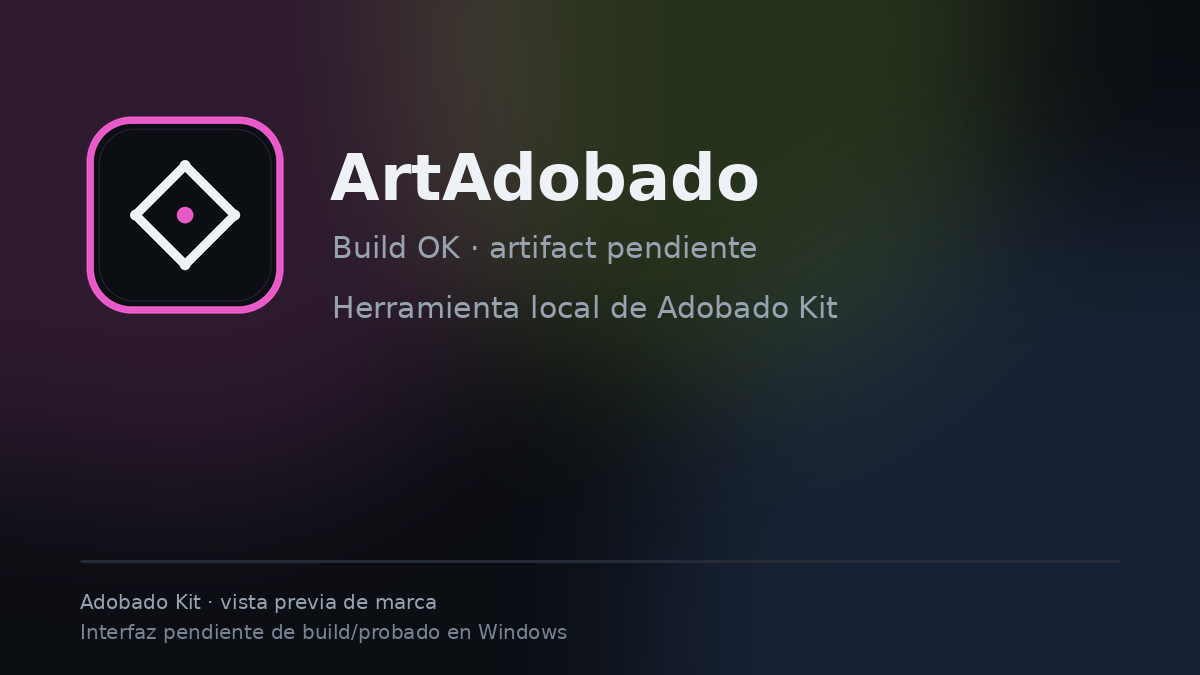
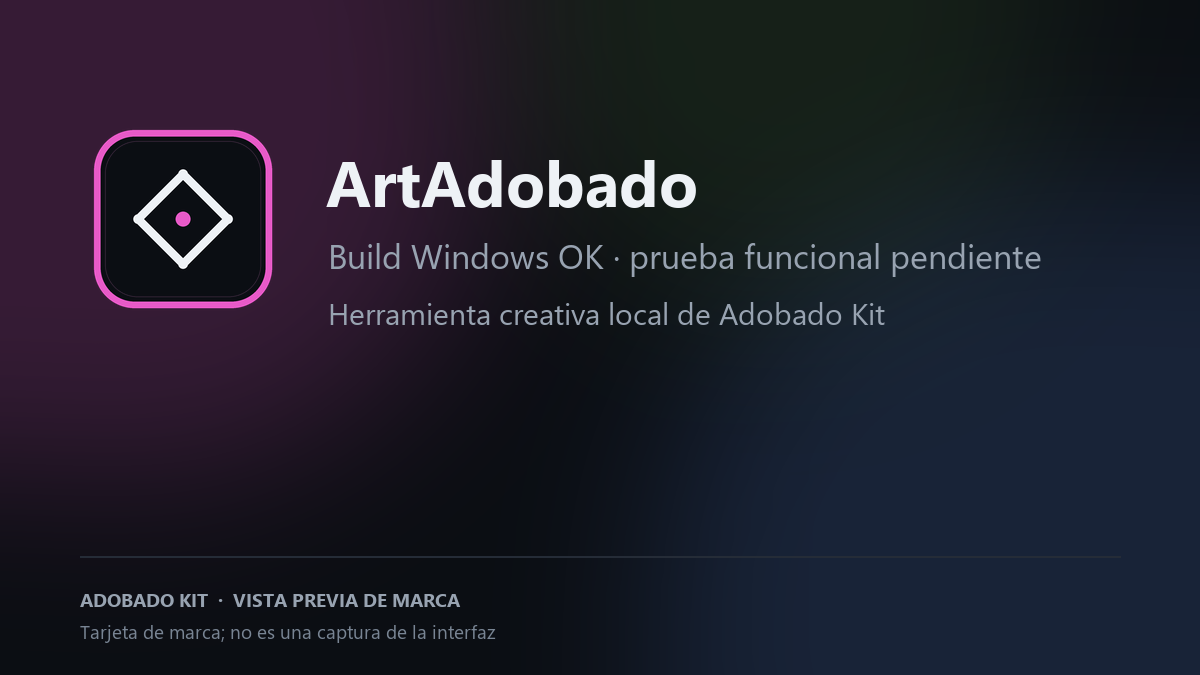
docs: update status and brand assets

diff --git a/README.md b/README.md
@@ -6,21 +6,27 @@
 
 [![License](https://img.shields.io/badge/license-MIT%20OR%20Apache--2.0-6cb6ff)](LICENSE-APACHE)
 [![Rust](https://img.shields.io/badge/Rust-1.95%2B-ff7a59)](Cargo.toml)
-[![Status](https://img.shields.io/badge/status-early%20alpha-d69e2e)](#estado)
-[![Stars](https://img.shields.io/github/stars/smouj/ArtAdobado?style=flat&color=FF5C5C)](https://github.com/smouj/ArtAdobado/stargazers)
+[![Windows build](https://github.com/smouj/ArtAdobado/actions/workflows/windows-build.yml/badge.svg?branch=main)](https://github.com/smouj/ArtAdobado/actions/workflows/windows-build.yml)
+[![Estado](https://img.shields.io/badge/status-instalaci%C3%B3n%20pendiente-ff7a59)](#estado)
+[![Estrellas](https://img.shields.io/github/stars/smouj/ArtAdobado?style=flat&color=B8F34A)](https://github.com/smouj/ArtAdobado/stargazers)
 [![Adobado Kit](https://img.shields.io/badge/Adobado%20Kit-hub-b8f34a)](https://github.com/smouj/Adobado_Kit)
 
-> **Alpha temprana.** Codigo importado y rebrandeado desde VectorCraft. Build de Windows y prueba de edicion pendientes. No se presenta como app disponible ni como sustituto profesional.
+> **Build de Windows correcta (20/10/2026).** Falta instalar e iniciar la app manualmente. La prueba de abrir, modificar y exportar un archivo real también está pendiente. La imagen siguiente es una tarjeta de marca, no una captura de la interfaz.
 >
 > Proyecto independiente. No afiliado a ArtCraft ni a Adobe.
 
-![ArtAdobado](docs/preview.png)
+![ArtAdobado — tarjeta de marca; interfaz pendiente](docs/preview.png)
+
+<sub>Tarjeta de marca; no es una captura de la interfaz.</sub>
 
 ## Estado
 
-- Codigo fuente: importado desde vectorcraft en el commit 9e7929ee8966977e6daf200f457c570f7aaf7c51.
-- Rebranding visible: nombre, enlaces, README, avisos y documentacion.
-- Pendiente: compilar en Windows, probar abrir/editar/exportar y publicar release.
+- **Build de Windows:** correcto en GitHub Actions; consulta el [workflow actual](https://github.com/smouj/ArtAdobado/actions/workflows/windows-build.yml).
+- **Prueba manual:** instalación e inicio pendientes.
+- **Flujo funcional:** abrir, modificar y exportar un archivo real sigue pendiente.
+- **Disponibilidad:** alpha; todavía no se declara lista para uso general.
+- **Release pública:** todavía no existe. No se publica un binario hasta completar las pruebas.
+- **Commit de origen:** 9e7929ee8966977e6daf200f457c570f7aaf7c51.
 
 ## Build
 

diff --git a/docs/ADOBADO.md b/docs/ADOBADO.md
@@ -15,12 +15,13 @@
 - Se retiran los logos y assets de marca de ArtCraft incluidos en docs/brand.
 - No se han cambiado el motor, los formatos ni las funciones de edicion.
 
-## Pendiente
+## Estado de validación — 20/10/2026
 
-- Rebranding de iconos de aplicacion.
-- Build de Windows y prueba de abrir, editar y exportar.
-- Release solo cuando exista un binario probado.
-
+- **Build de Windows:** correcto en GitHub Actions ([workflow](https://github.com/smouj/ArtAdobado/actions/workflows/windows-build.yml)).
+- **Prueba manual:** instalación e inicio pendientes.
+- **Uso con archivos reales:** abrir, modificar y exportar sigue pendiente.
+- **Distribución:** todavía no hay una release pública; no se publicará un binario sin completar las pruebas.
+- **Origen:** 9e7929ee8966977e6daf200f457c570f7aaf7c51.
 ## Marcas
 
 ArtCraft, VectorCraft y sus logos son marcas del ArtCraft Team y no estan cubiertos por la licencia de codigo. Adobe y sus productos son marcas de Adobe Inc. Este proyecto no esta afiliado a Adobe ni a ArtCraft.

diff --git a/CHANGELOG.md b/CHANGELOG.md
@@ -1,5 +1,13 @@
 # Changelog - ArtAdobado
 
+## [Unreleased]
+
+### Documentado
+- Estado de compilación y validación manual de Windows actualizado.
+- Captura o tarjeta de marca identificada correctamente; se aclara que la prueba con archivos reales sigue pendiente.
+- Se confirma que todavía no existe una release pública.
+
+
 ## 0.1.0-alpha.1 - 2026-10-20
 
 ### Anadido
